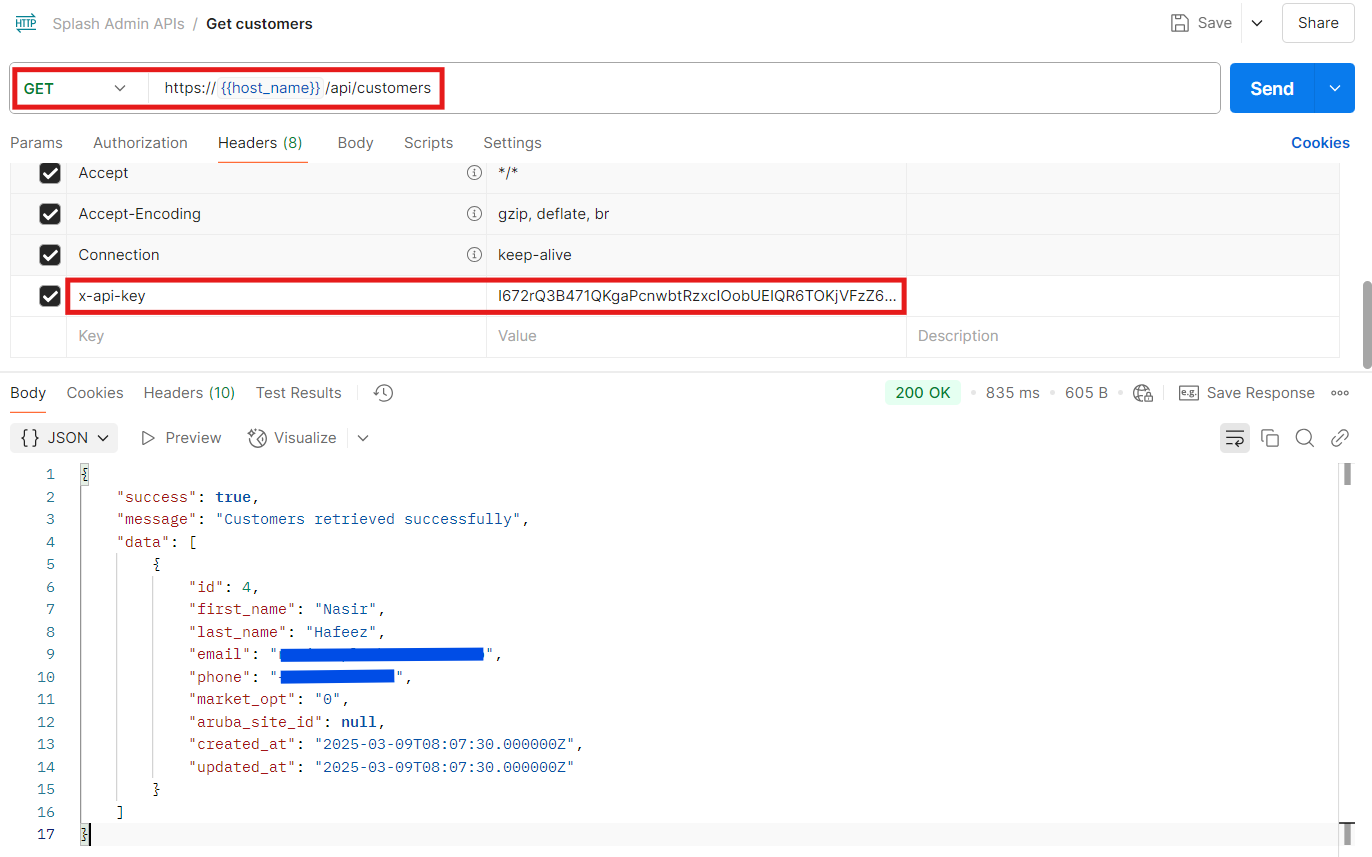
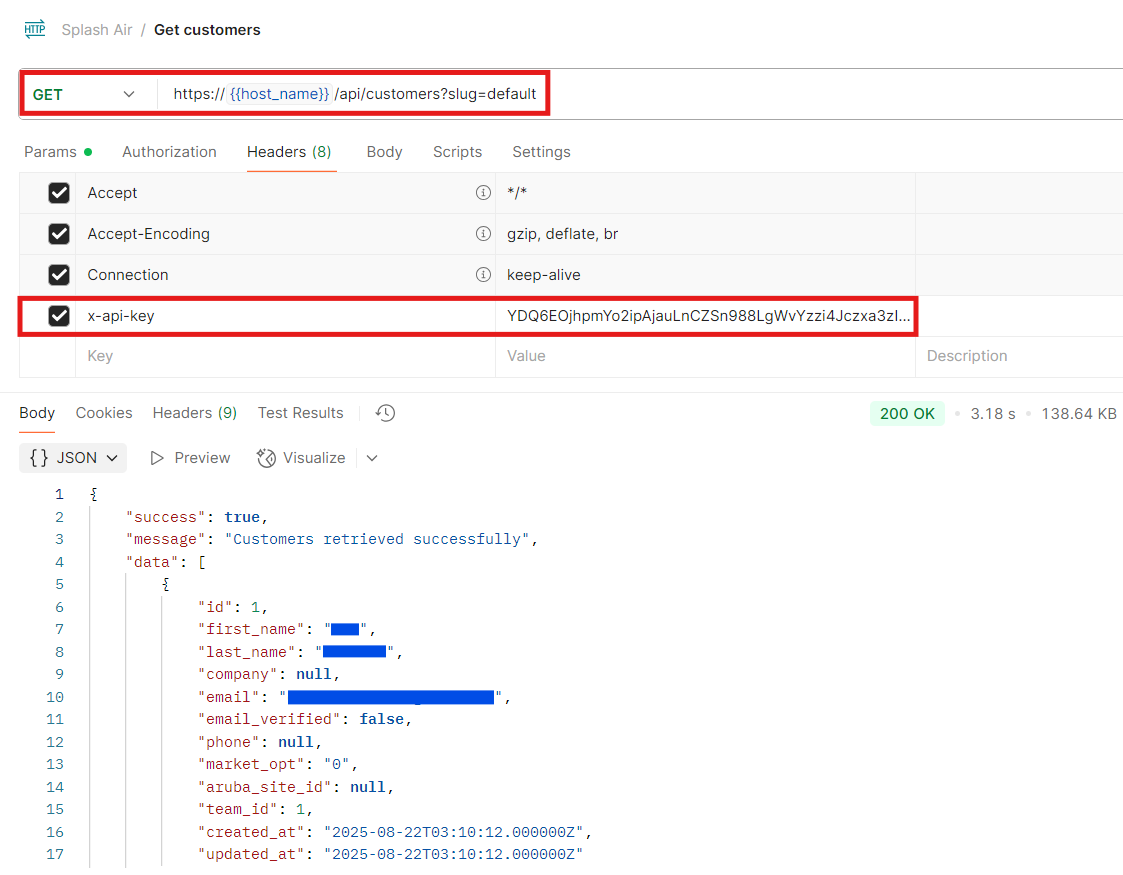
api slug

diff --git a/docs/customer-data/api.md b/docs/customer-data/api.md
@@ -22,22 +22,24 @@ This will be followed by the specific endpoint that you're querying.
 
 ## Customers
 
-Customer data can be retrieved using the customers API.
+Customer data can be retrieved using the customers API. If using multi-tenancy replace `default` with the team identifier.
 
 ```
 Request Type: GET
 API Endpoint: /customers
+Query Parameters: slug=default
 ```
 
 ![Get Customers](../assets/images/customer-data/api/api-customers.png)
 
 ## Customer Visits
 
-Customer visit data can be retrieved using the customer-visits API.
+Customer visit data can be retrieved using the customer-visits API. If using multi-tenancy replace `default` with the team identifier.
 
 ```
 Request Type: GET
 API Endpoint: /customer-visits
+Query Parameters: slug=default
 ```
 
 ![Get Customer Visits](../assets/images/customer-data/api/api-visits.png)
